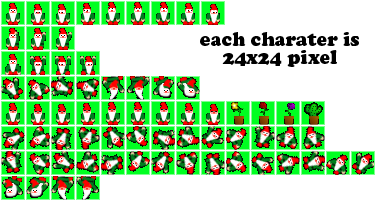
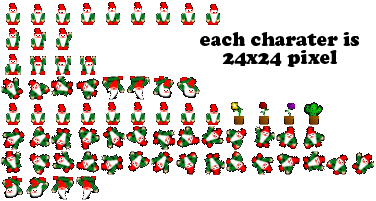
pot explodes on impact now

Changed region(s): [[0.0, 0.0, 1.0, 1.0]]

diff --git a/script.ts b/script.ts
@@ -322,6 +322,7 @@ class Character {
     width: number;
     height: number;
     nainsImage: HTMLImageElement;
+    explosionImage: HTMLImageElement;
     frameNains: number;
     verticalShift: number;
     fall: boolean;
@@ -334,6 +335,8 @@ class Character {
     potx: number;
     poty: number;
     potV: number;
+    potCollided: boolean;
+    explodePotKeyFrame: number;
 
     constructor(x: number, y: number) {
         this.x = x
@@ -344,7 +347,8 @@ class Character {
         this.vy = 0
         this.force = 0
         this.damping = 0.98
-        this.nainsImage = document.querySelector('#character img')!
+        this.nainsImage = document.querySelector('#character .character')!
+        this.explosionImage = document.querySelector('#character .explosion')!
         this.frameNains = Math.floor(Math.random() * 8)
         this.verticalShift = 25
         this.fall = false
@@ -357,6 +361,8 @@ class Character {
         this.potx = 1
         this.poty = 1
         this.potV = 10
+        this.potCollided = false
+        this.explodePotKeyFrame = 0
     }
 
     drawNains(context: CanvasRenderingContext2D, platform: Platform) {
@@ -366,21 +372,34 @@ class Character {
                 if (lastTime - this.spawn > 8000) {
                     // setting up things for the first time
                     if (this.potx === 1 && this.poty === 1) {
-                        this.angle = Math.atan2(platform.y - this.y, (platform.x + platform.width / 3) - this.x)
+                        this.angle = Math.atan2(platform.y - this.y + this.verticalShift * this.potHeight, (platform.x + platform.width / 3) - this.x)
                         this.potx = this.x
                         this.poty = this.y
                     }
-                    this.potx += this.potV * Math.cos(this.angle)
-                    this.poty += this.potV * Math.sin(this.angle)
-                    this.potV *= 1.01 
-                    // 
+
+                    const rectangle1: IRectangleCollisionProps = { x: this.potx, y: this.poty - this.verticalShift * this.potHeight, width: this.width, height: this.height }
+                    const rectangle2: IRectangleCollisionProps = { x: platform.x, y: platform.y, width: platform.width, height: platform.height }
+                    this.potCollided = detectRectangleCollision(rectangle1, rectangle2)
+
+
                     let rowNumber = 4
                     // nains
                     context.drawImage(this.nainsImage, Math.floor(this.frameNains) * this.width, rowNumber * this.height, this.width, this.height, this.x, this.y - this.verticalShift, this.width, this.height)
                     this.frameNains < 8 ? this.frameNains += 0.5 : this.frameNains = 0
-                    //pots
-                    rowNumber = 4
-                    context.drawImage(this.nainsImage, this.potNumber * this.width, rowNumber * this.height, this.width, this.height, this.potx, this.poty - this.verticalShift * this.potHeight, this.width, this.height)
+
+                    
+                    if (!this.potCollided) {
+                        this.potx += this.potV * Math.cos(this.angle)
+                        this.poty += this.potV * Math.sin(this.angle)
+                        this.potV *= 1.01
+                        //pots
+                        context.drawImage(this.nainsImage, this.potNumber * this.width, rowNumber * this.height, this.width, this.height, this.potx, this.poty - this.verticalShift * this.potHeight, this.width, this.height)
+                        this.explodePotKeyFrame = 0
+                    } else {
+
+                        context.drawImage(this.explosionImage, this.explodePotKeyFrame * 256, 0, 256, 341, this.potx, this.poty - this.verticalShift * this.potHeight, this.width, this.height)
+                        this.explodePotKeyFrame < 44 ? this.explodePotKeyFrame += 1 : ''
+                    }
 
                     //reset for next round of assult
                     if (lastTime - this.spawn > 15000) {

diff --git a/script.js b/script.js
@@ -228,7 +228,8 @@ class Character {
         this.vy = 0;
         this.force = 0;
         this.damping = 0.98;
-        this.nainsImage = document.querySelector('#character img');
+        this.nainsImage = document.querySelector('#character .character');
+        this.explosionImage = document.querySelector('#character .explosion');
         this.frameNains = Math.floor(Math.random() * 8);
         this.verticalShift = 25;
         this.fall = false;
@@ -241,6 +242,8 @@ class Character {
         this.potx = 1;
         this.poty = 1;
         this.potV = 10;
+        this.potCollided = false;
+        this.explodePotKeyFrame = 0;
     }
     drawNains(context, platform) {
         if (!this.fall) {
@@ -248,18 +251,27 @@ class Character {
             if (lastTime > this.spawn) {
                 if (lastTime - this.spawn > 8000) {
                     if (this.potx === 1 && this.poty === 1) {
-                        this.angle = Math.atan2(platform.y - this.y, (platform.x + platform.width / 3) - this.x);
+                        this.angle = Math.atan2(platform.y - this.y + this.verticalShift * this.potHeight, (platform.x + platform.width / 3) - this.x);
                         this.potx = this.x;
                         this.poty = this.y;
                     }
-                    this.potx += this.potV * Math.cos(this.angle);
-                    this.poty += this.potV * Math.sin(this.angle);
-                    this.potV *= 1.01;
+                    const rectangle1 = { x: this.potx, y: this.poty - this.verticalShift * this.potHeight, width: this.width, height: this.height };
+                    const rectangle2 = { x: platform.x, y: platform.y, width: platform.width, height: platform.height };
+                    this.potCollided = detectRectangleCollision(rectangle1, rectangle2);
                     let rowNumber = 4;
                     context.drawImage(this.nainsImage, Math.floor(this.frameNains) * this.width, rowNumber * this.height, this.width, this.height, this.x, this.y - this.verticalShift, this.width, this.height);
                     this.frameNains < 8 ? this.frameNains += 0.5 : this.frameNains = 0;
-                    rowNumber = 4;
-                    context.drawImage(this.nainsImage, this.potNumber * this.width, rowNumber * this.height, this.width, this.height, this.potx, this.poty - this.verticalShift * this.potHeight, this.width, this.height);
+                    if (!this.potCollided) {
+                        this.potx += this.potV * Math.cos(this.angle);
+                        this.poty += this.potV * Math.sin(this.angle);
+                        this.potV *= 1.01;
+                        context.drawImage(this.nainsImage, this.potNumber * this.width, rowNumber * this.height, this.width, this.height, this.potx, this.poty - this.verticalShift * this.potHeight, this.width, this.height);
+                        this.explodePotKeyFrame = 0;
+                    }
+                    else {
+                        context.drawImage(this.explosionImage, this.explodePotKeyFrame * 256, 0, 256, 341, this.potx, this.poty - this.verticalShift * this.potHeight, this.width, this.height);
+                        this.explodePotKeyFrame < 44 ? this.explodePotKeyFrame += 1 : '';
+                    }
                     if (lastTime - this.spawn > 15000) {
                         this.spawn = lastTime;
                         this.potx = 1;

diff --git a/index.html b/index.html
@@ -28,7 +28,8 @@
         <button class="restart-btn">Restart</button>
     </div>
     <div id="character">
-        <img src="/assets//images/characters2.png" alt="">
+        <img class="character" src="/assets//images/characters.png" alt="">
+        <img class="explosion" src="/assets//images/explosion.png" alt="">
     </div>
 </body>
 
